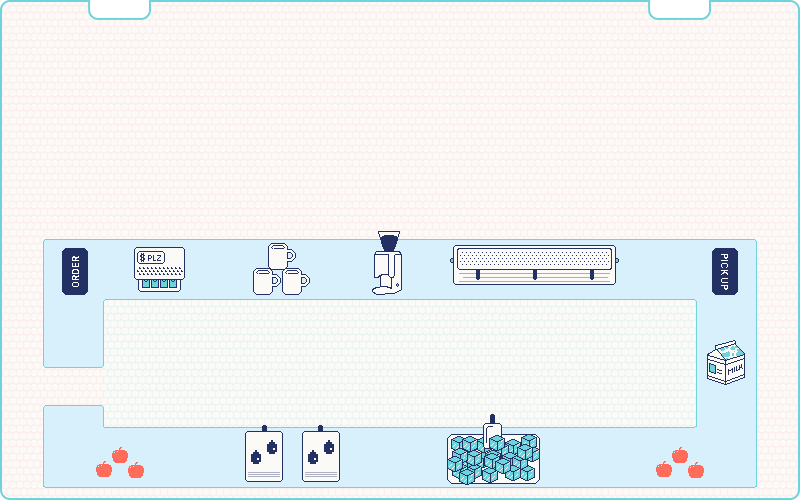
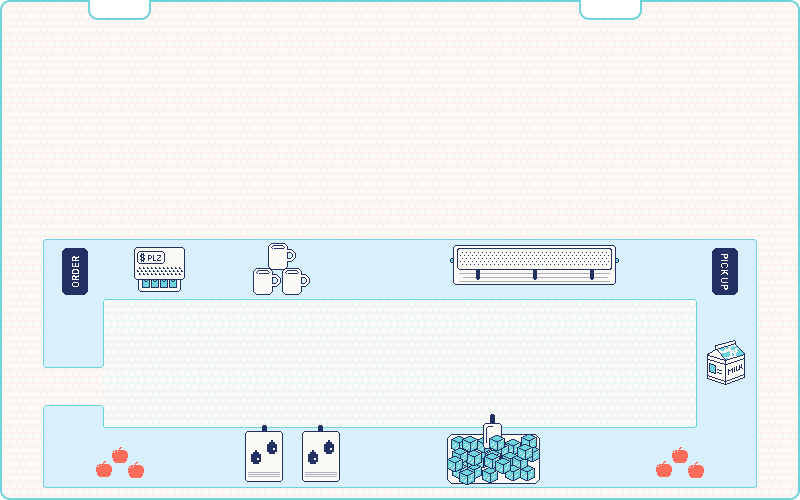
Additional sprites, game instructions on the left hand side

Changed region(s): [[0.7188, 0.0, 0.9062, 0.06], [0.4688, 0.45, 0.5, 0.6]]

diff --git a/src/scripts/player.js b/src/scripts/player.js
@@ -30,6 +30,7 @@ const upgrades = [
 
 
 import { game } from './game';
+import { grinder } from './grinder';
 
 class Player {
     constructor() {
@@ -52,7 +53,6 @@ class Player {
         let addedItem = "";
         items.forEach(item => {
             if (game.collision(this, item) && this.frameY === item.frameDir) {
-                if (this.inventory.length >= 3) this.inventory.pop(); 
                 this.addItemToInventory(item);
                 addedItem = item;
             }
@@ -70,16 +70,18 @@ class Player {
                 let upgradeable = true;
                 upgrade.reagents.forEach(reagent => {
                     if (!itemNames.includes(reagent)) {
-                        
                         upgradeable = false;
                         return;
                     }
                 });
-                if (upgradeable) this.addItemToInventory(upgrade, itemNames, addedItem);
+                if (upgradeable) {
+                    this.addItemToInventory(upgrade, itemNames, addedItem);
+                    if (upgrade.name === "Ground Espresso") grinder.grinding = 100;
+                }
             }
         });
 
-        // if (upgradeable) return;
+        if (this.inventory.length > 3) this.inventory.pop(); 
 
 
     }
@@ -193,10 +195,10 @@ class Player {
             this.width, this.height, 
             this.x, this.y, 
             this.width, this.height
-            );
-            
-            this.handlePlayerFrame();
-            this.renderItems();
+        );
+        
+        this.handlePlayerFrame();
+        this.renderItems();
     }
         
 

diff --git a/src/scripts/utilities.js b/src/scripts/utilities.js
@@ -1,8 +1,10 @@
 import { player } from './player.js';
 import { game } from './game.js';
 import { cashier } from './cashier.js';
+import { grinder } from './grinder.js';
 
 const servingArea = { x: 600 , y: 275, width: 100, height: 20 };
+let gameStarted = false;
 
 window.addEventListener("load", () => {
     var fpsInterval, startTime, now, then, elapsed;
@@ -28,6 +30,7 @@ window.addEventListener("load", () => {
             cashier.draw();
             game.handleGuests();
             game.handleScoreboard();
+            grinder.draw();
         }
     }
 
@@ -37,6 +40,10 @@ window.addEventListener("load", () => {
         if (player.keys.Digit1 && game.collision(player, servingArea)) player.serveGuest(0);
         if (player.keys.Digit2 && game.collision(player, servingArea)) player.serveGuest(1);
         if (player.keys.Digit3 && game.collision(player, servingArea)) player.serveGuest(2);
+        if (e.code === "Enter" && gameStarted === false) {
+            gameStarted = true;
+            startGame();
+        }
     });
 
 
@@ -54,6 +61,8 @@ window.addEventListener("load", () => {
         game.speed = 1;
     }
 
-    game.initGuests();
-    startAnimating(30);
+    function startGame() {
+        game.initGuests();
+        startAnimating(30);
+    }
 });

diff --git a/src/scripts/game.js b/src/scripts/game.js
@@ -16,10 +16,13 @@ sprites.push({ name: 'death_scythe', width: 200, height: 192 });
 sprites.push({ name: 'crowley_wings', width: 192, height: 192 });
 sprites.push({ name: 'jawa', width: 128, height: 192 });
 sprites.push({ name: 'barret', width: 160, height: 224 });
-// sprites.push({ name: , width: , height: });
-// sprites.push({ name: , width: , height: });
-// sprites.push({ name: , width: , height: });
-// sprites.push({ name: , width: , height: });
+sprites.push({ name: 'bahamut', width: 384, height: 384});
+sprites.push({ name: 'L', width: 128, height: 192});
+sprites.push({ name: 'ironman', width: 128, height: 192});
+sprites.push({ name: 'mandalorian', width: 128, height: 192});
+sprites.push({ name: 'yoda', width: 128, height: 192});
+sprites.push({ name: 'astromechdroid', width: 108, height: 104});
+sprites.push({ name: 'aziraphale_wings', width: 192, height: 192});
 
 class Game {
     constructor() {

diff --git a/src/scripts/grinder.js b/src/scripts/grinder.js
@@ -1,0 +1,34 @@
+const canvas4 = document.getElementById('canvas4');
+const ctx4 = canvas4.getContext('2d');
+canvas4.width = 800;
+canvas4.height = 500;
+
+class Grinder {
+    constructor() {
+        this.grinderPic = new Image();
+        this.grinderPic.src = 'src/images/grinder.png';
+        this.x = 370;
+        this.y = 225;
+        this.height = 64;
+        this.width = 30;
+        this.grinding = 0;
+    }
+
+    draw() {
+        if (this.grinding !== 0) {
+            
+            this.x === 370 ? this.x = 372 : this.x = 370;
+            this.grinding -= 1;
+        }
+
+        if (this.grinding > 0) this.grinding -= 1;
+
+        ctx4.drawImage(
+            this.grinderPic,
+            this.x, this.y,
+            this.width, this.height
+        );
+    }
+}
+
+export const grinder = new Grinder();

diff --git a/src/scripts/guest.js b/src/scripts/guest.js
@@ -10,10 +10,10 @@ canvas3.height = 500;
 export default class Guest {
     constructor(id, speed, x, y, patience, orderType, spriteImage) {
         this.id = id;
-        this.x = x;
-        this.y = y;
         this.width = spriteImage.width / 4;
         this.height = spriteImage.height / 4;
+        this.x = x;
+        this.y = y;
         this.moving = true;
         this.frameX = 0;
         this.frameY = 0;

diff --git a/src/scripts/cashier.js b/src/scripts/cashier.js
@@ -13,7 +13,7 @@ class Cashier {
         this.frameX = 0;
         this.frameY = 3;
         this.cashierSprite = new Image();
-        this.cashierSprite.src = 'src/images/L.png';
+        this.cashierSprite.src = 'src/images/lightyagami.png';
         this.speed = 10;
     }
 
